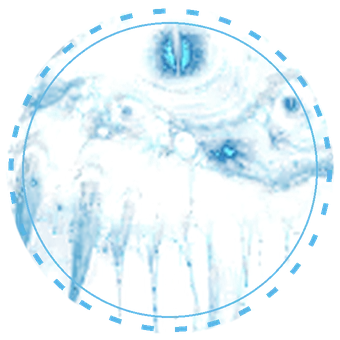
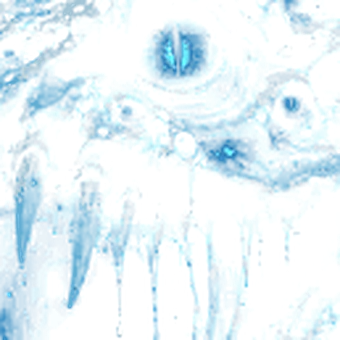
v4.7: front marks remade as shaped emblems (no circles) — eye, diamond, fangs, face

diff --git a/index.html b/index.html
@@ -131,9 +131,9 @@
         <div class="picker-scroll design-scroll"><div class="picker design" id="cutoutGrid"></div></div>
         <div class="actions"><button class="btn ghost" id="cutoutMore" style="display:none">Show more cutouts</button></div>
         <p class="meta">Album 4 is your store designs with the background stripped out — only the artwork itself stitches. No black square, no panel. Full-scene designs (where the background IS the picture) are not in here; they stay in the panel browser above.</p>
-        <h3>1e · Front Marks — embroidered medallions that pair with a back</h3>
+        <h3>1e · Front Marks — shaped emblems that pair with a back</h3>
         <div class="picker" id="frontmarkPicker"></div>
-        <p class="meta">No text, ever — each medallion is the signature detail of its back design, flattened to a few thread colours with a stitched ring border. Picking one jumps the preview to <strong>over the heart</strong> (wearer’s left chest).</p>
+        <p class="meta">No text, ever — each one is the signature shape of its back design — an eye, a diamond, fangs, a face — pulled out of the artwork and flattened to a few thread colours. Picking one jumps the preview to <strong>over the heart</strong> (wearer’s left chest).</p>
         <h3>2 · Your item</h3>
         <div class="row" id="garmentRow"></div>
         <div class="row" id="viewRow" style="margin-top:8px"></div>
@@ -213,11 +213,11 @@ const LOGOS = [
 ];
 const VARIATIONS = [["var-001", "var-002", "var-003", "var-004", "var-005", "var-006", "var-007", "var-008", "var-009", "var-010", "var-011", "var-012", "var-013", "var-014", "var-015", "var-016", "var-017", "var-018", "var-019", "var-020", "var-021", "var-022", "var-023", "var-024", "var-025", "var-026", "var-027", "var-028", "var-029", "var-030", "var-031", "var-032", "var-033", "var-034", "var-035", "var-036", "var-037", "var-038", "var-039", "var-040", "var-041", "var-042", "var-043", "var-044", "var-045", "var-046", "var-047", "var-048", "var-049", "var-050", "var-051", "var-052", "var-053", "var-054", "var-055", "var-056", "var-057", "var-058", "var-059", "var-060", "var-061", "var-062", "var-063", "var-064", "var-065", "var-066", "var-067", "var-068", "var-069", "var-070", "var-071", "var-072", "var-073", "var-074", "var-075", "var-076", "var-077", "var-078", "var-079", "var-080", "var-081", "var-082", "var-083", "var-084", "var-085", "var-086", "var-087", "var-088", "var-089", "var-090", "var-091", "var-092", "var-093", "var-094", "var-095", "var-096", "var-097", "var-098", "var-099", "var-100", "var-101", "var-102", "var-103", "var-104", "var-105", "var-106", "var-107", "var-108", "var-109", "var-110", "var-111", "var-112", "var-113", "var-114", "var-115", "var-116", "var-117", "var-118", "var-119", "var-120", "var-121", "var-122", "var-123", "var-124", "var-125", "var-126", "var-127", "var-128", "var-129", "var-130", "var-131", "var-132", "var-133", "var-134", "var-135"]];
 const FRONTMARKS = [
-  {id:"fm-neon-eye", name:"Neon Eye Medallion", pair:"Neon Glow"},
-  {id:"fm-glitch-eye", name:"Glitch Eye Medallion", pair:"Rainbow Glitch"},
-  {id:"fm-sun-eye", name:"Sun Diamond-Eye Medallion", pair:"Sun Bleached"},
-  {id:"fm-creature-eye", name:"Creature Eye Medallion", pair:"Creature #01690"},
-  {id:"fm-opal-face", name:"Opal Face Medallion", pair:"Fire Opal"}
+  {id:"fm-neon-eye", name:"Neon Third-Eye", pair:"Neon Glow"},
+  {id:"fm-glitch-eye", name:"Glitch Eye", pair:"Rainbow Glitch"},
+  {id:"fm-sun-eye", name:"Sun Diamond-Eye", pair:"Sun Bleached"},
+  {id:"fm-creature-eye", name:"Creature Eye & Fangs", pair:"Creature #01690"},
+  {id:"fm-opal-face", name:"Opal Face", pair:"Fire Opal"}
 ];
 function isFrontmark(id){ return typeof id === "string" && id.indexOf("fm-") === 0; }
 const GARMENTS = {
